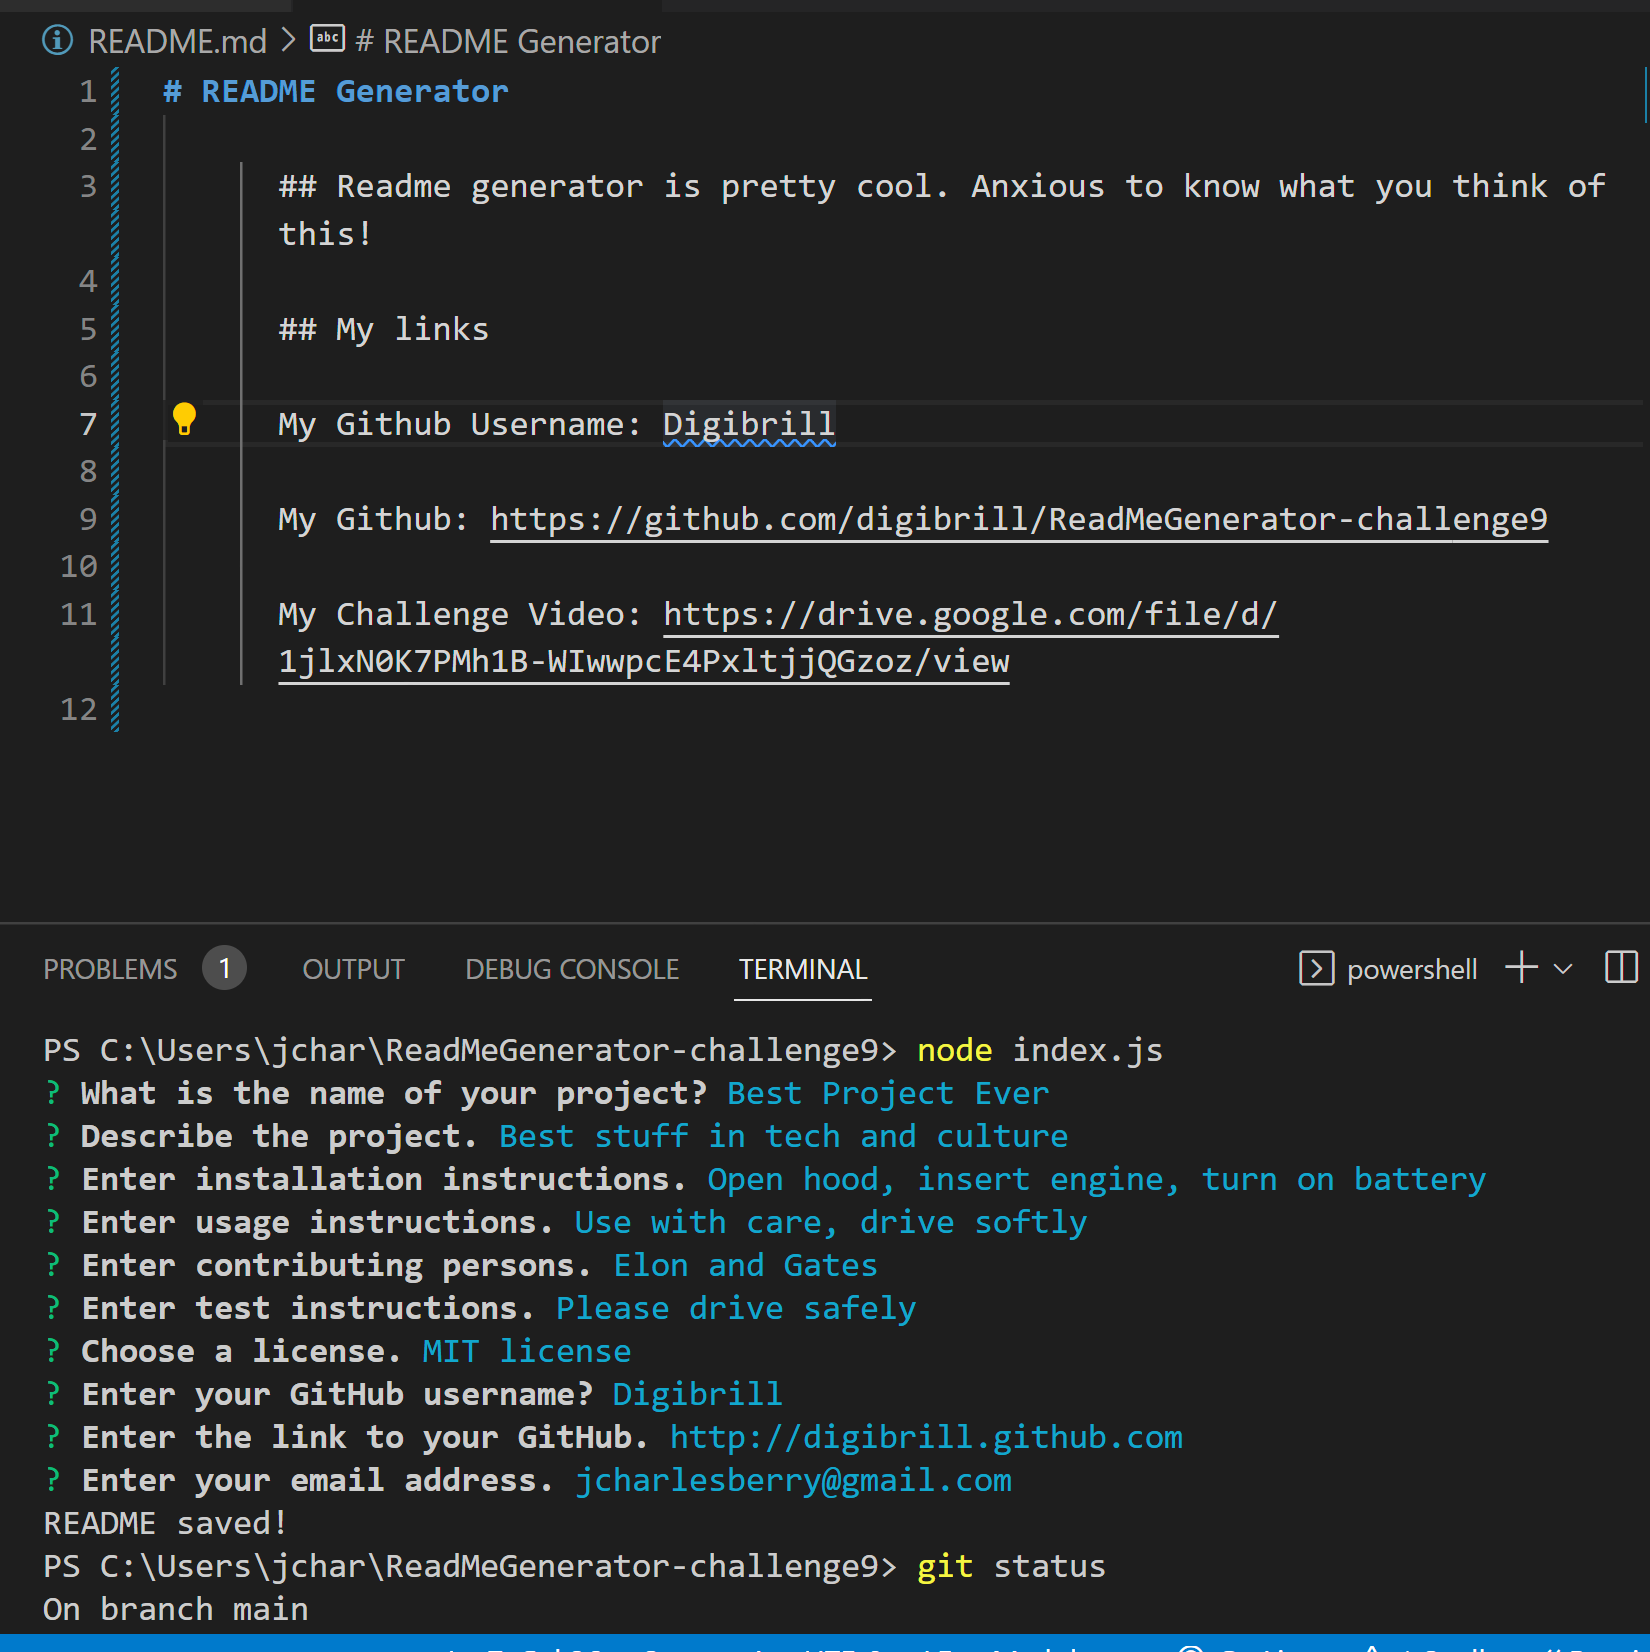
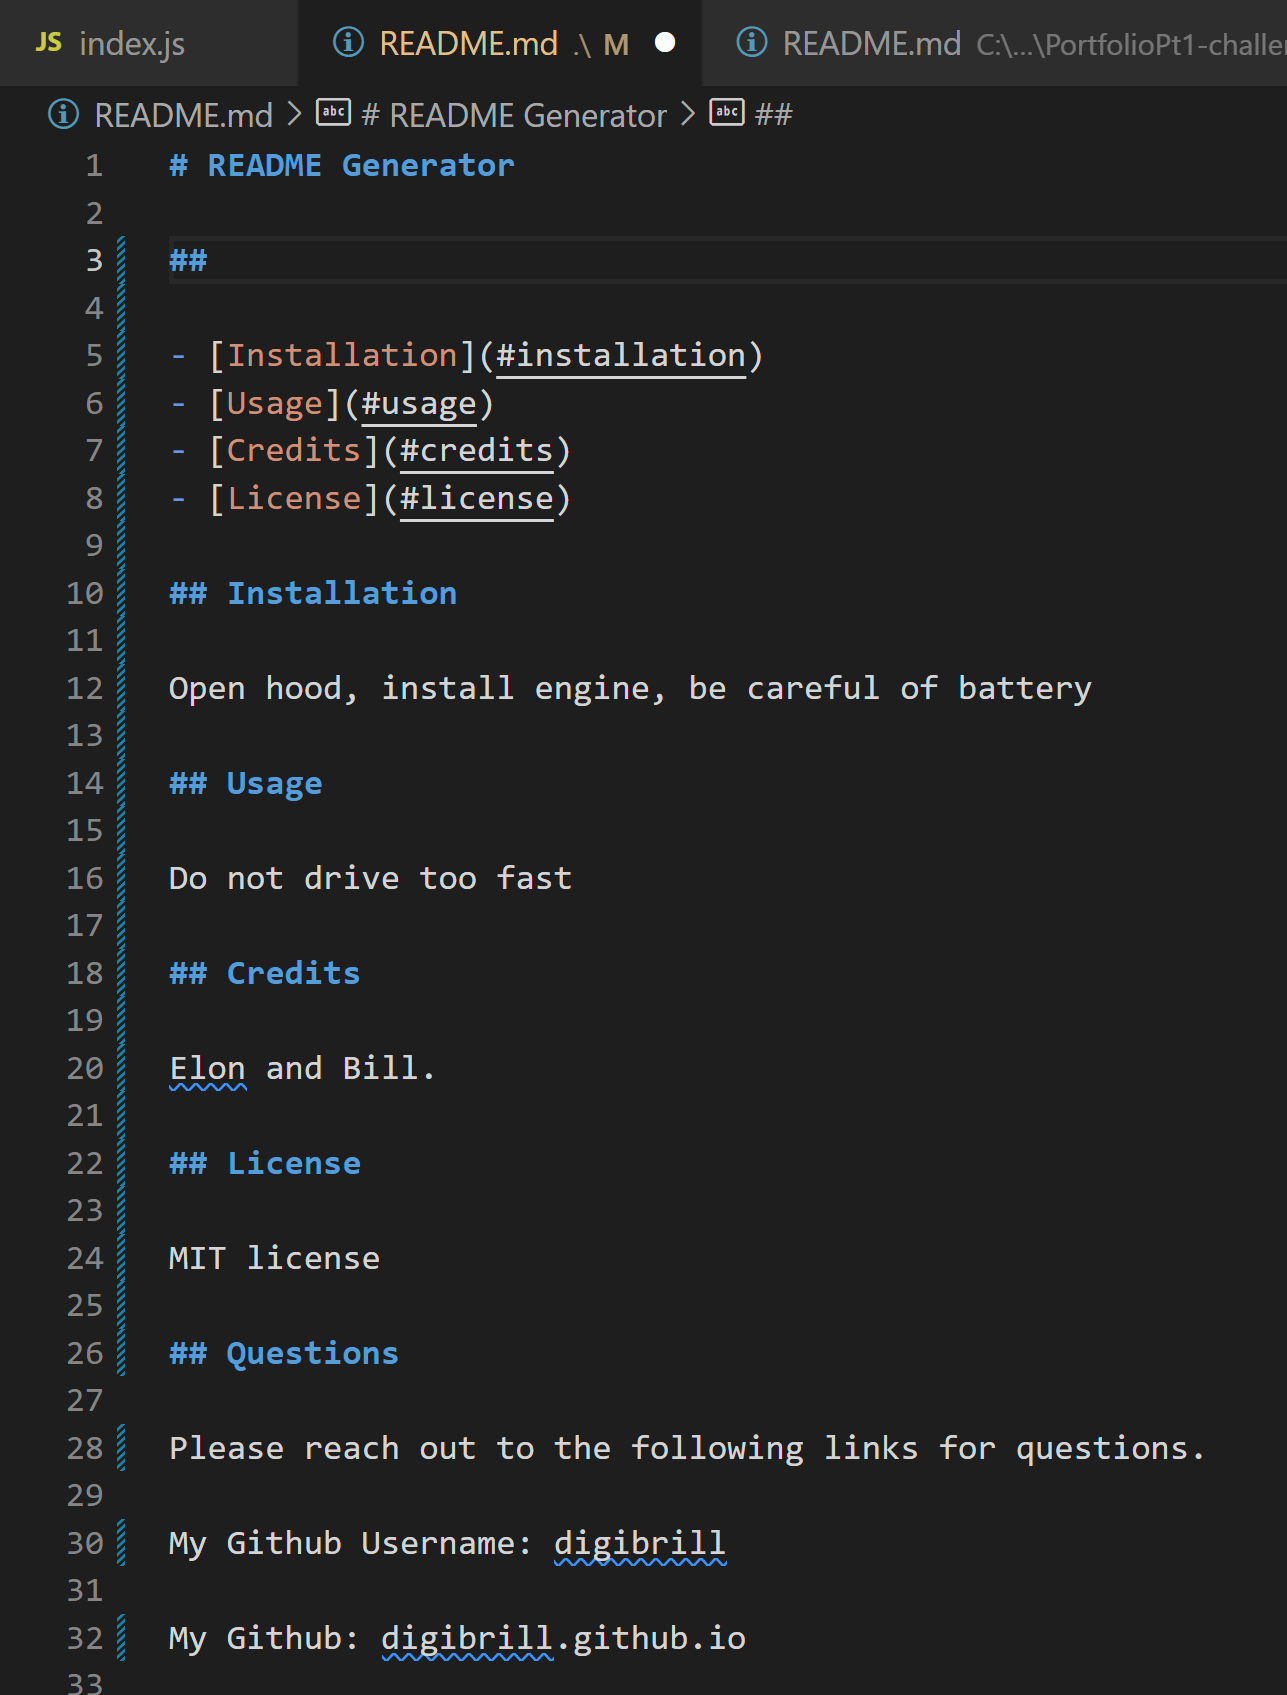
updated screenshot and README.md Screencap

diff --git a/README.md b/README.md
@@ -1,13 +1,11 @@
 # README Generator
 
-## Readme generator is pretty cool. Anxious to know what you think of this!
-
-![portfolio demo](./Assets/images/screenshot.png)
-
-## My links
-      
-My Github Username: Digibrill
+## I hope this works! And that I did it correctly
+     
+## Questions
       
 My Github: https://github.com/digibrill/ReadMeGenerator-challenge9
       
-My Challenge Video: https://drive.google.com/file/d/1jlxN0K7PMh1B-WIwwpcE4PxltjjQGzoz/view
+My Email: jcharlesberry@gmail.com
+      
+![portfolio demo](./Assets/images/screenshot.png)
